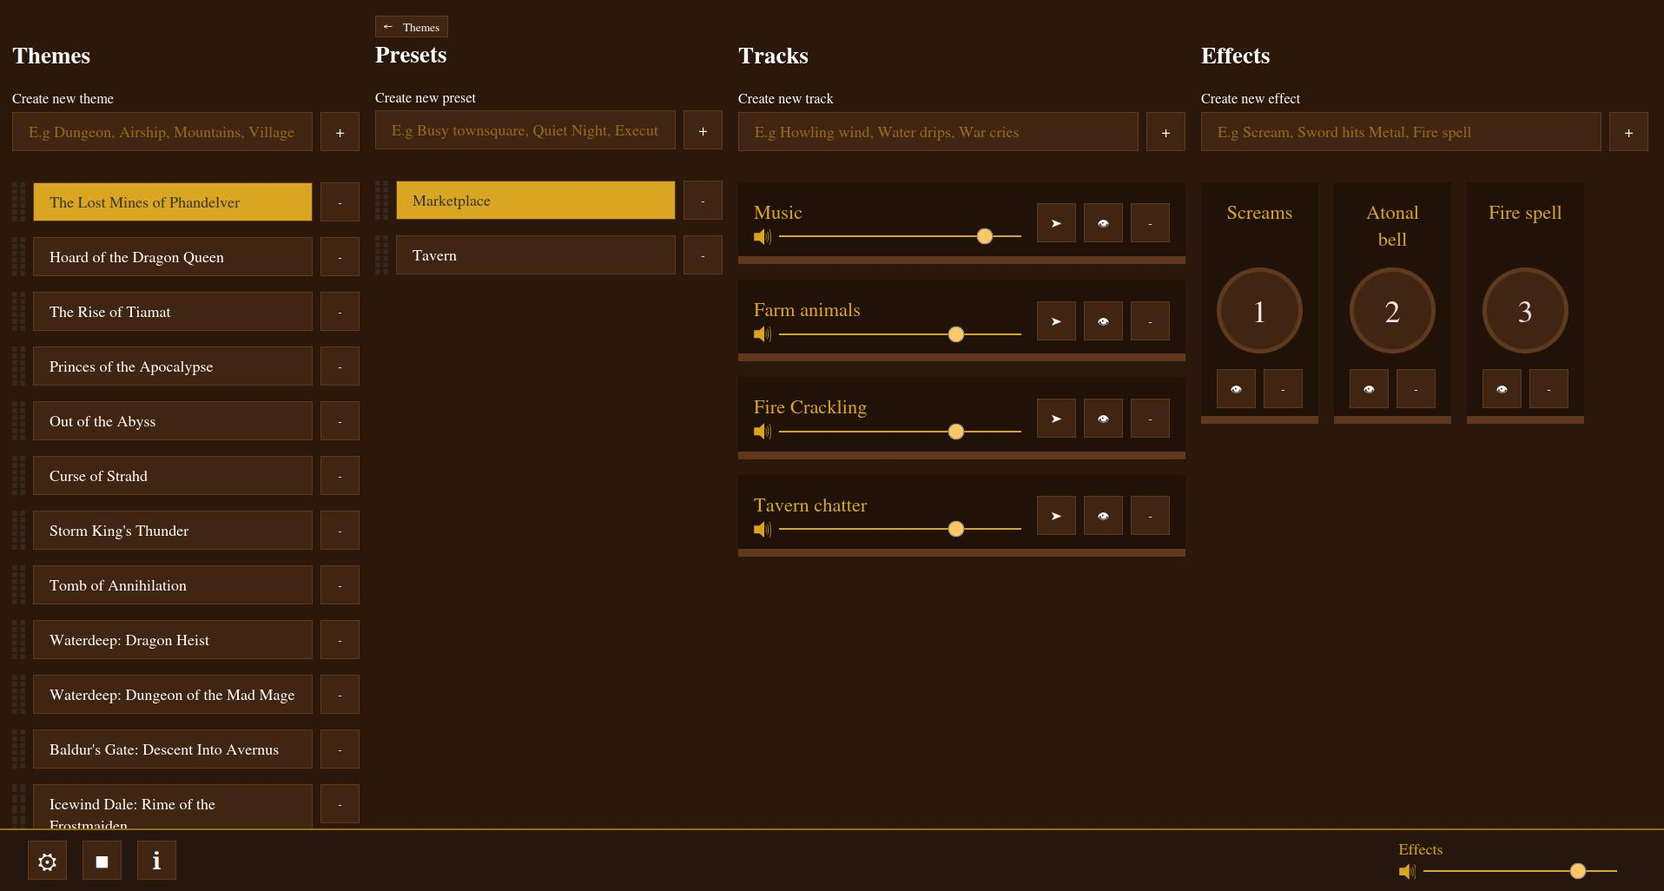
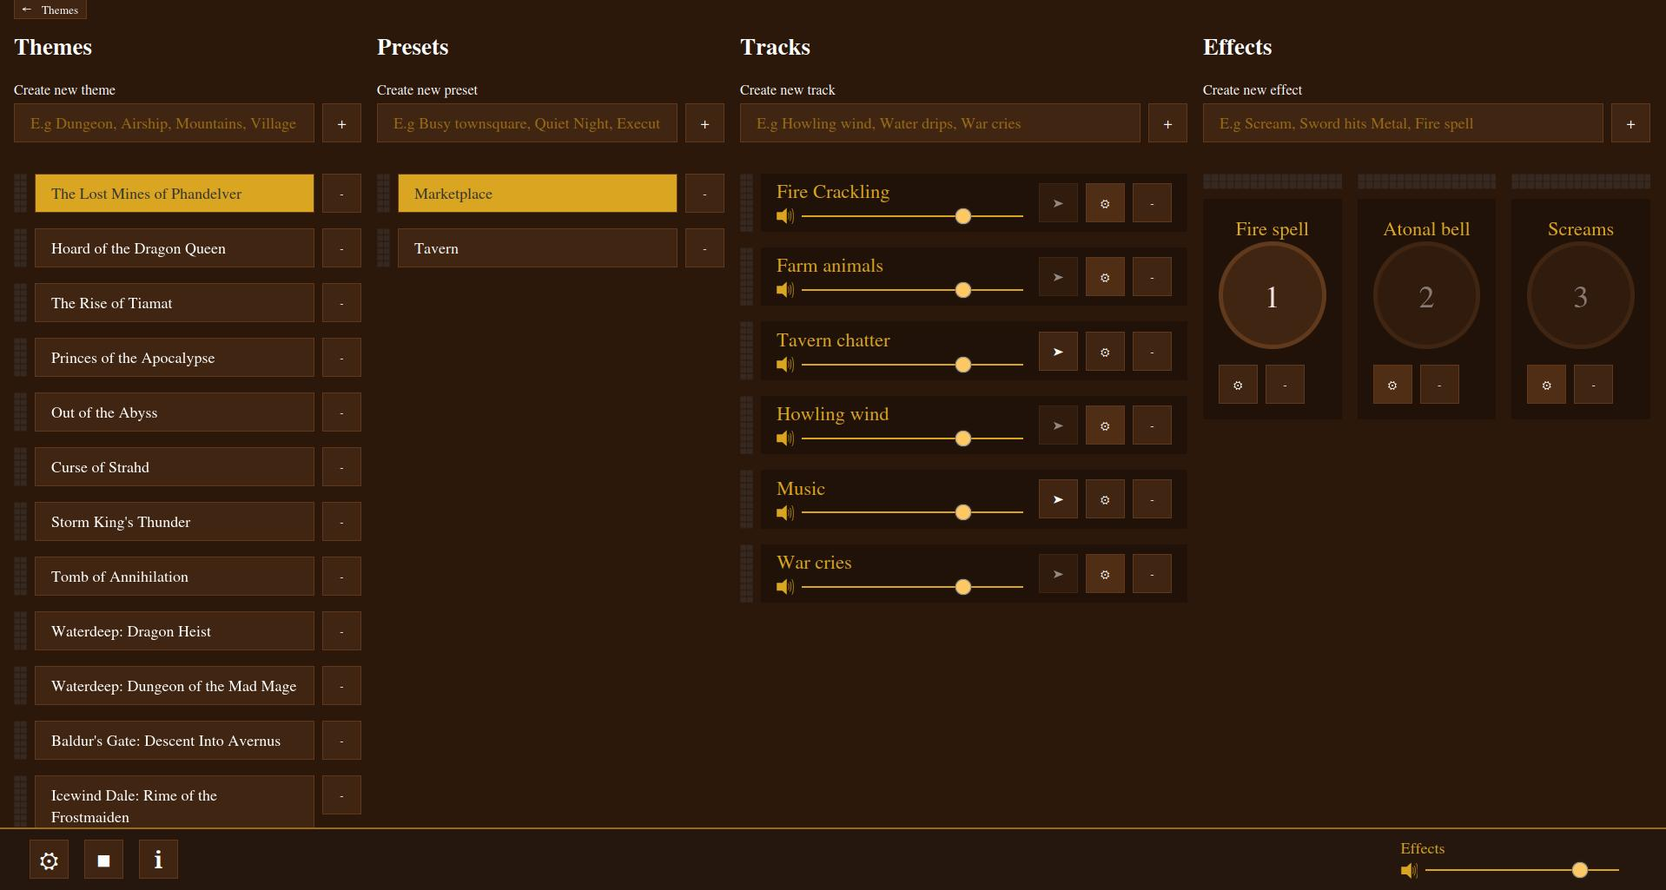
Add new readme image

diff --git a/assets/scss/style.css b/assets/scss/style.css
@@ -1,1 +1,1 @@
-*{font-family:Cambria,Cochin,Georgia,Times,"Times New Roman",serif;box-sizing:border-box}html{font-size:18px}body{background-color:#2b180b;color:#fff;margin:0}h1,h2,h3{margin-block:unset}h2{margin-bottom:1rem}ul{list-style:none;padding-left:unset;margin-block:unset}input{font-size:1rem;color:inherit}input[type=file]{display:none}input[type=button],button{cursor:pointer}input[type=file]+label{background-color:#2b180b;color:#fff;padding:.25rem 1rem;cursor:pointer;width:100%}textarea{max-width:100%;font-size:1.25rem;resize:none}::-moz-placeholder{color:#996b15;opacity:1}::placeholder{color:#996b15;opacity:1}main{display:flex;gap:1rem;padding-inline:1rem;position:relative}.action-section{flex:1;display:grid;grid-template-columns:clamp(300px,21vw,400px) minmax(0, 1fr) minmax(0, 1fr);gap:1rem}.shrinking~.action-section{grid-template-columns:clamp(300px,21vw,400px) minmax(0, 1fr) minmax(0, 1.5fr)}.files{gap:1rem;display:grid}section:not(#preset) header{margin-top:2.5rem}#theme{transition:width 500ms linear,transform 500ms linear;width:100%;overflow:hidden;max-width:400px}.empty{background-color:unset !important;width:100%;max-width:unset !important;padding:unset !important}.add-form{display:flex;flex-wrap:wrap;gap:.5rem;margin-bottom:1rem}.add-form__label{display:block;flex:100%;font-size:.9rem;margin-bottom:-0.25rem}.add-form__input{background-color:#402512;border:1px solid #61381b;outline:none;padding:.5rem 1rem;flex:1}.action-button{background-color:#402512;border:1px solid #61381b;color:#fff;transition:background-color 300ms,transform 200ms;width:2.5rem;height:2.5rem;display:inline-block;line-height:1}.action-button:hover{background-color:#ae6430}.action-button:active{transform:rotate(5deg)}.play-actions{display:flex;align-items:center;gap:.5rem;justify-self:center}header{margin-bottom:2rem;margin-top:1rem}.tracks{display:flex;flex-direction:column;gap:1rem}.track-title{color:#daa520;font-size:1.25rem;word-wrap:break-word}.track-title__container{text-align:center}.track-row{display:flex;flex-direction:column;gap:1rem;flex:1;padding:.25rem 1rem;background-color:rgba(0,0,0,.25)}@media(min-width: 1800px){.track-row{align-items:center;flex-direction:row;gap:unset;justify-content:space-between}}.track-info{display:flex;flex-direction:column;width:100%}.volume-bar{color:#daa520;display:flex;gap:.5rem;padding-right:1rem}.volume-bar-background{position:relative;display:flex;align-items:center;width:100%}.volume-bar svg{width:1.25rem;height:auto}.volume-bar-background::before{position:absolute;content:"";width:100%;background-color:currentColor;height:2px;z-index:0}.volume-bar input[type=range]{-webkit-appearance:none;-moz-appearance:none;appearance:none;background-color:unset;border:unset;position:relative;z-index:1;padding:unset;width:100%}.volume-bar input[type=range]::-webkit-slider-thumb,.volume-bar input[type=range]::-moz-range-thumb{-webkit-appearance:none;appearance:none;height:16px;width:16px;background:#ffc862;box-shadow:0 0 2px 0 #555;-webkit-transition:background .3s ease-in-out;-moz-transition:background .3s ease-in-out;transition:background .3s ease-in-out}.volume-bar input[type=range]::-webkit-slider-thumb:hover,.volume-bar input[type=range]::-moz-range-thumb:hover{background:#fff;border-radius:0}.volume-bar input[type=range]::-webkit-slider-runnable-track,.volume-bar input[type=range]::-moz-range-track{-webkit-appearance:none;appearance:none;box-shadow:none;border:none;background:rgba(0,0,0,0)}.list{display:flex;flex-direction:column;gap:1rem;overflow-y:auto;padding-bottom:1rem;scrollbar-gutter:stable}.list li.list__item{display:flex;gap:.5rem}.list li input[type=button],.list li input[type=text],.list li textarea{background-color:#402512;color:#fff;border:1px solid #61381b;padding:.5rem 1rem;flex:1;text-align:start;transition:background-color 300ms,transform 200ms;white-space:break-spaces;outline:none}.list li input[type=button]:hover,.list li input[type=text]:hover,.list li textarea:hover{background-color:#ae6430}.list li input[type=button]:active,.list li input[type=text]:active,.list li textarea:active{transform:rotate(1deg)}.list li[data-state=selected] input[type=button]{color:#333;border:1px solid #61381b;background-color:#daa520}#track .list li{display:flex;justify-content:space-between;gap:.5rem}#effect .list{justify-content:space-between;display:grid;grid-template-columns:135px 135px 135px;row-gap:1rem;-moz-column-gap:unset;column-gap:unset}#effect .list li{max-width:7.5rem;justify-content:space-between}.no-files [data-action=play]{opacity:50%;cursor:not-allowed}.no-files [data-action=see-files]{animation:pulse 1s infinite alternate linear}@keyframes pulse{from{background-color:#402512}to{background-color:#553118}}#effect .play-actions{margin-top:1rem}#effect .track__inner{margin-top:1.65rem;background-color:rgba(0,0,0,.25);padding:1rem;height:100%;display:flex;flex-direction:column;justify-content:space-between}[draggable=true]::before{content:"";background-size:100% 100%;width:15px;display:block;cursor:move;background-image:url("/assets/img/boxes-horizontal.svg");background-repeat:repeat-y;background-size:100%}#effect [draggable=true]{position:relative}#effect [draggable=true]::before{position:absolute;width:100%;height:1rem;left:0;top:0;background-image:url("/assets/img/boxes-vertical.svg");background-repeat:repeat-x;background-size:contain}#track textarea,#effect textarea{background-color:unset;border:unset;padding:unset}.dialog{z-index:10;display:none;position:absolute;left:0;top:0;width:100%;height:100vh}.dialog__outer{background-color:rgba(0,0,0,.5);display:flex;align-items:center;justify-content:center;height:100%}.dialog__inner{border:5px groove #daa520;border-radius:12px;background-color:#402512;padding:1.5rem;color:#daa520;position:relative;width:300px}.dialog button[data-action=close-dialog]{position:absolute;right:-4px;top:-3px;background-color:rgba(0,0,0,0);border:#daa520 2px solid;color:#daa520;height:1.5rem;width:1.5rem;line-height:1;border-radius:6px;transition:background-color 300ms,color 300ms}.dialog button[data-action=close-dialog]:hover{background-color:#daa520;color:#2b180b}.dialog .action-button{width:1.5rem;height:1.5rem}.dialog--show{display:block}.dialog__files{padding-top:1rem;margin-top:1rem;border-top:1px solid #ffc862}.dialog .files__file{display:flex;justify-content:space-between}.dialog h2{font-size:1rem;margin-bottom:.5rem}.dialog form{text-align:center}.keystroke{width:100%;display:inline-block;border-radius:50%;font-size:2rem;color:#f5e3e3;background-color:#402512;border:solid 5px #61391c;transition:background-color 300ms cubic-bezier(0.165, 0.84, 0.44, 1);aspect-ratio:1/1}.keystroke:hover{background-color:#2b180b}.keystroke:active{background-color:#daa520}#effect li{display:flex;flex-direction:column;gap:1rem}footer{position:fixed;bottom:0;left:0;right:0;width:100%;display:flex;justify-content:space-between;background-color:#25170d;border-top:#996b15 2px solid;padding:.5rem 2rem;color:#fff;align-items:center}.footer-slider{display:flex;flex-direction:column;justify-content:center;color:#daa520}.footer-buttons{display:flex;align-items:center;gap:1rem}.action-button[data-action=settings]{font-size:1.5rem}.action-button[data-action=info]{font-size:1.5rem}.action-button[data-action=play].active{background-color:#daa520}.action-button[data-action=toggle-themes]{width:unset;height:unset;padding:.25rem .5rem}.action-button[data-action=toggle-themes] .arrow{transition:transform 300ms ease-in-out;display:inline-block;margin-right:.5rem}
+*{font-family:Cambria,Cochin,Georgia,Times,"Times New Roman",serif;box-sizing:border-box}html{font-size:18px}body{background-color:#2b180b;color:#fff;margin:0}h1,h2,h3{margin-block:unset}h2{margin-bottom:1rem}ul{list-style:none;padding-left:unset;margin-block:unset}input{font-size:1rem;color:inherit}input[type=file]{display:none}input[type=button],button{cursor:pointer}input[type=file]+label{background-color:#2b180b;color:#fff;padding:.25rem 1rem;cursor:pointer;width:100%}textarea{max-width:100%;font-size:1.25rem;resize:none}::-moz-placeholder{color:#996b15;opacity:1}::placeholder{color:#996b15;opacity:1}main{display:flex;padding-inline:1rem;position:relative}.action-section{flex:1;display:grid;grid-template-columns:clamp(300px,21vw,400px) minmax(0, 1fr) minmax(0, 1fr);gap:1rem;margin-left:1rem}.shrinking~.action-section{grid-template-columns:clamp(300px,21vw,400px) minmax(0, 1fr) minmax(0, 1.5fr);margin-left:unset}.shrinking+.action-section #effect .list{grid-template-columns:1fr 1fr 1fr 1fr 1fr}.files{gap:1rem;display:grid}#theme{transition:width 500ms linear,transform 500ms linear;width:100%;overflow:hidden;max-width:400px}.empty{background-color:unset !important;width:100%;max-width:unset !important;padding:unset !important}.add-form{display:flex;flex-wrap:wrap;gap:.5rem;margin-bottom:1rem}.add-form__label{display:block;flex:100%;font-size:.9rem;margin-bottom:-0.25rem}.add-form__input{background-color:#402512;border:1px solid #61381b;outline:none;padding:.5rem 1rem;flex:1}.action-button{background-color:#402512;border:1px solid #61381b;color:#fff;transition:background-color 300ms,transform 200ms;width:2.5rem;height:2.5rem;display:inline-block;line-height:1;cursor:pointer}.action-button:hover{background-color:#ae6430}.action-button:active{transform:rotate(5deg)}.play-actions{display:flex;align-items:center;gap:.5rem;justify-self:center}header{margin-block:2rem}.tracks{display:flex;flex-direction:column;gap:1rem}.track-title{color:#daa520;font-size:1.25rem;word-wrap:break-word}.track-title__container{text-align:center}.track-row{display:flex;flex-direction:column;gap:1rem;flex:1;padding:.25rem 1rem;background-color:rgba(0,0,0,.25)}@media(min-width: 1800px){.track-row{align-items:center;flex-direction:row;gap:unset;justify-content:space-between}}.track-info{display:flex;flex-direction:column;width:100%}.volume-bar{color:#daa520;display:flex;gap:.5rem;padding-right:1rem}.volume-bar-background{position:relative;display:flex;align-items:center;width:100%}.volume-bar svg{width:1.25rem;height:auto}.volume-bar-background::before{position:absolute;content:"";width:100%;background-color:currentColor;height:2px;z-index:0}.volume-bar input[type=range]{-webkit-appearance:none;-moz-appearance:none;appearance:none;background-color:unset;border:unset;position:relative;z-index:1;padding:unset;width:100%}.volume-bar input[type=range]::-webkit-slider-thumb,.volume-bar input[type=range]::-moz-range-thumb{-webkit-appearance:none;appearance:none;height:16px;width:16px;background:#ffc862;box-shadow:0 0 2px 0 #555;-webkit-transition:background .3s ease-in-out;-moz-transition:background .3s ease-in-out;transition:background .3s ease-in-out}.volume-bar input[type=range]::-webkit-slider-thumb:hover,.volume-bar input[type=range]::-moz-range-thumb:hover{background:#fff;border-radius:0}.volume-bar input[type=range]::-webkit-slider-runnable-track,.volume-bar input[type=range]::-moz-range-track{-webkit-appearance:none;appearance:none;box-shadow:none;border:none;background:rgba(0,0,0,0)}.list{display:flex;flex-direction:column;gap:1rem;overflow-y:auto;padding-bottom:1rem;scrollbar-gutter:stable}.list li.list__item{display:flex;gap:.5rem}.list li input[type=button],.list li input[type=text],.list li textarea{background-color:#402512;color:#fff;border:1px solid #61381b;padding:.5rem 1rem;flex:1;text-align:start;transition:background-color 300ms,transform 200ms;white-space:break-spaces;outline:none}.list li input[type=button]:hover,.list li input[type=text]:hover,.list li textarea:hover{background-color:#ae6430}.list li input[type=button]:active,.list li input[type=text]:active,.list li textarea:active{transform:rotate(1deg)}.list li[data-state=selected] input[type=button]{color:#333;border:1px solid #61381b;background-color:#daa520}#track .list li{display:flex;justify-content:space-between;gap:.5rem}#effect .list{justify-content:space-between;display:grid;grid-template-columns:1fr 1fr 1fr}#effect .list li{justify-content:space-between}.no-files [data-action=play]{opacity:50%;cursor:not-allowed}.no-files [data-action=play]:hover,.no-files [data-action=play]:active{transform:unset;background-color:#402512}.no-files [data-action=see-files]{animation:pulse 1s infinite alternate linear}@keyframes pulse{from{background-color:#402512}to{background-color:#553118}}#effect .play-actions{margin-top:1rem}#effect .track__inner{margin-top:1.65rem;background-color:rgba(0,0,0,.25);padding:1rem;height:100%;display:flex;flex-direction:column;justify-content:space-between}[draggable=true]::before{content:"";background-size:100% 100%;width:15px;display:block;cursor:move;background-image:url("/assets/img/boxes-horizontal.svg");background-repeat:repeat-y;background-size:100%}#effect [draggable=true]{position:relative}#effect [draggable=true]::before{position:absolute;width:100%;height:1rem;left:0;top:0;background-image:url("/assets/img/boxes-vertical.svg");background-repeat:repeat-x;background-size:contain}#track textarea,#effect textarea{background-color:unset;border:unset;padding:unset}.dialog{z-index:10;display:none;position:absolute;left:0;top:0;width:100%;height:100vh}.dialog__outer{background-color:rgba(0,0,0,.5);display:flex;align-items:center;justify-content:center;height:100%}.dialog__inner{border:5px groove #daa520;border-radius:12px;background-color:#402512;padding:1.5rem;color:#daa520;position:relative;width:300px}.dialog button[data-action=close-dialog]{position:absolute;right:-4px;top:-3px;background-color:rgba(0,0,0,0);border:#daa520 2px solid;color:#daa520;height:1.5rem;width:1.5rem;line-height:1;border-radius:6px;transition:background-color 300ms,color 300ms}.dialog button[data-action=close-dialog]:hover{background-color:#daa520;color:#2b180b}.dialog .action-button{width:1.5rem;height:1.5rem}.dialog--show{display:block}.dialog__files{padding-top:1rem;margin-top:1rem;border-top:1px solid #ffc862}.dialog .files__file{display:flex;justify-content:space-between}.dialog h2{font-size:1rem;margin-bottom:.5rem}.dialog form{text-align:center}.keystroke{width:100%;display:inline-block;border-radius:50%;font-size:2rem;color:#f5e3e3;background-color:#402512;border:solid 5px #61391c;transition:background-color 300ms cubic-bezier(0.165, 0.84, 0.44, 1);aspect-ratio:1/1}.keystroke:hover{background-color:#2b180b}.keystroke:active{background-color:#daa520}#effect li{display:flex;flex-direction:column;gap:1rem}footer{position:fixed;bottom:0;left:0;right:0;width:100%;display:flex;justify-content:space-between;background-color:#25170d;border-top:#996b15 2px solid;padding:.5rem 2rem;color:#fff;align-items:center}.footer-slider{display:flex;flex-direction:column;justify-content:center;color:#daa520}.footer-buttons{display:flex;align-items:center;gap:1rem}.action-button[data-action=settings]{font-size:1.5rem}.action-button[data-action=info]{font-size:1.5rem}.action-button[data-action=play].active{background-color:#daa520}.action-button[data-action=toggle-themes]{position:fixed;top:0;z-index:1;width:unset;height:unset;padding:.25rem .5rem}.action-button[data-action=toggle-themes] .arrow{transition:transform 300ms ease-in-out;display:inline-block;margin-right:.5rem}

diff --git a/assets/js/script.js b/assets/js/script.js
@@ -368,12 +368,15 @@ function createPreset(value, theme_id, list) {
   if (value === "Default") {
     current = 1
   }
-  loadJson(`/api/preset/create.php?name=${value}&theme_id=${theme_id}&current=${current}`)
+  const order = list.children.length + 1
+
+  loadJson(`/api/preset/create.php?name=${value}&theme_id=${theme_id}&order=${order}&current=${current}`)
   .then(id => {
     const template = document.querySelector('#item')
     const clone = template.content.cloneNode(true)
     const li = clone.querySelector('.list__item')
     li.setAttribute('data-id', id)
+    li.setAttribute('data-order', order)
     clone.querySelector('.list__item input[type=button]').value = value
     list.append(clone)
     if (current) {
@@ -386,22 +389,25 @@ function createPreset(value, theme_id, list) {
 }
 
 function createTrack(value, theme_id, list) {
-    loadJson(`/api/track/create.php?name=${value}&theme_id=${theme_id}&type_id=1`)
-    .then(id => {
-      const template = document.querySelector('#track-item')
-      const clone = template.content.cloneNode(true)
-      const li = clone.querySelector('li')
-      li.setAttribute('data-id', id)
-      li.querySelector('.track-title').innerHTML = value
-      list.append(clone)
-      // TODO: Add exclamation for "Add file to this track"
-      const empty = list.querySelector('.empty')
-      if (empty) empty.remove()
-    })
+  const order = list.children.length + 1
+  loadJson(`/api/track/create.php?name=${value}&theme_id=${theme_id}&type_id=1&order=${order}`)
+  .then(id => {
+    const template = document.querySelector('#track-item')
+    const clone = template.content.cloneNode(true)
+    const li = clone.querySelector('li')
+    li.setAttribute('data-id', id)
+    li.setAttribute('data-order', order)
+    li.querySelector('.track-title').innerHTML = value
+    list.append(clone)
+    tagTracksWithoutFiles()
+    const empty = list.querySelector('.empty')
+    if (empty) empty.remove()
+  })
 }
 
 function createEffect(value, theme_id, list) {
-  loadJson(`/api/track/create.php?name=${value}&theme_id=${theme_id}&type_id=2`)
+  const order = list.children.length + 1
+  loadJson(`/api/track/create.php?name=${value}&theme_id=${theme_id}&type_id=2&order=${order}`)
   .then(id => {
     const template = document.querySelector('#effect-item')
     const clone = template.content.cloneNode(true)
@@ -412,7 +418,7 @@ function createEffect(value, theme_id, list) {
     const keystroke = keystrokes[list.querySelectorAll('li:not(.empty)').length - 1]
     li.setAttribute('data-keystroke', keystroke)
     li.querySelector('.keystroke').innerHTML = keystroke
-    // TODO: Add exclamation for "Add file to this track"
+    tagTracksWithoutFiles()
     const empty = list.querySelector('.empty')
     if (empty) empty.remove()
   })
@@ -515,6 +521,9 @@ document.addEventListener('click', (ev) => {
     if (type === "effect" || type === "track") {
       loadJson(`/api/track/delete.php?id=${id}`)
       li.remove()
+      if (list.children.length === 0) {
+        list.innerHTML = `<li class="empty">No ${type}s added yet!</li>`
+      }
       return
     }
     const selected = list.querySelector('[data-state=selected]')
@@ -649,7 +658,7 @@ document.addEventListener('click', (ev) => {
 
   if (ev.target.getAttribute('data-action') === 'toggle-themes') {
     const theme = document.querySelector('#theme')
-    let transform = theme_width + 32 // inline padding + gap
+    let transform = theme_width // inline padding + gap
     if (theme.style.width === "0px") {
       ev.target.querySelector('.arrow').style.transform = "rotateY(0)"
       ev.target.style.backgroundColor = "#402512"

diff --git a/assets/scss/style.scss b/assets/scss/style.scss
@@ -59,7 +59,6 @@ textarea {
 
 main {
   display: flex;
-  gap: 1rem;
   padding-inline: 1rem;
   position: relative;
 }
@@ -69,20 +68,21 @@ main {
   display: grid;
   grid-template-columns: clamp(300px, 21vw, 400px) minmax(0, 1fr) minmax(0, 1fr);
   gap: 1rem;
+  margin-left: 1rem;
 }
 
 .shrinking ~ .action-section {
   grid-template-columns: clamp(300px, 21vw, 400px) minmax(0, 1fr) minmax(0, 1.5fr);
+  margin-left: unset;
+}
+
+.shrinking + .action-section #effect .list {
+  grid-template-columns: 1fr 1fr 1fr 1fr 1fr;
 }
 
 .files {
   gap: 1rem;
   display: grid;
-}
-
-
-section:not(#preset) header {
-  margin-top: 2.5rem;
 }
 
 #theme {
@@ -128,6 +128,7 @@ section:not(#preset) header {
   height: 2.5rem;
   display: inline-block;
   line-height: 1;
+  cursor: pointer;
   &:hover {
     background-color: rgb(174, 100, 48);
   }
@@ -144,8 +145,7 @@ section:not(#preset) header {
 }
 
 header {
-  margin-bottom: 2rem;
-  margin-top: 1rem;
+  margin-block: 2rem;
 }
 
 .tracks {
@@ -292,11 +292,8 @@ header {
 #effect .list {
   justify-content: space-between;
   display: grid;
-  grid-template-columns: 135px 135px 135px;
-  row-gap: 1rem;
-  column-gap: unset;
+  grid-template-columns: 1fr 1fr 1fr;
   & li {
-    max-width: 7.5rem;
     justify-content: space-between;
   }
 }
@@ -305,6 +302,10 @@ header {
   & [data-action=play] {
     opacity: 50%;
     cursor:not-allowed;
+    &:hover, &:active {
+      transform: unset;
+      background-color: #402512;
+    }
   }
   & [data-action=see-files] {
     animation: pulse 1s infinite alternate linear;
@@ -499,6 +500,9 @@ footer {
   background-color: goldenrod;
 }
 .action-button[data-action=toggle-themes] {
+  position: fixed;
+  top: 0;
+  z-index: 1;
   width: unset;
   height: unset;
   padding: .25rem .5rem;

diff --git a/DB.php b/DB.php
@@ -73,7 +73,7 @@ class DB {
 
   // Preset
   // Create
-  public function create_preset($name, $theme_id, $current = 0) {
+  public function create_preset($name, $theme_id, $order, $current = 0) {
     // create preset
     $sql = "INSERT INTO preset (name) VALUES(:name)";
     $stmt = $this->pdo->prepare($sql);
@@ -82,11 +82,12 @@ class DB {
     $preset_id = $this->pdo->lastInsertId();
 
     // add preset to theme
-    $sql = "INSERT INTO theme_preset (theme_id, preset_id, current) VALUES(:theme_id, :preset_id, :current)";
+    $sql = "INSERT INTO theme_preset (theme_id, preset_id, current, \"order\") VALUES(:theme_id, :preset_id, :current, :order)";
     $stmt = $this->pdo->prepare($sql);
     $stmt->bindValue(':theme_id', $theme_id);
     $stmt->bindValue(':preset_id', $preset_id);
     $stmt->bindValue(':current', $current);
+    $stmt->bindValue(':order', $order);
     $stmt->execute();
 
     return $preset_id;
@@ -228,7 +229,7 @@ class DB {
 
   // Track
   // Create
-  public function create_track($name, $theme_id, $type_id) {
+  public function create_track($name, $theme_id, $type_id, $order) {
     // create track
     $sql = "INSERT INTO track (name, type_id) VALUES(:name, :type_id)";
     $stmt = $this->pdo->prepare($sql);
@@ -238,10 +239,11 @@ class DB {
     $track_id = $this->pdo->lastInsertId();
 
     // add track to theme
-    $sql = "INSERT INTO theme_track (theme_id, track_id) VALUES(:theme_id, :track_id)";
+    $sql = "INSERT INTO theme_track (theme_id, track_id, \"order\") VALUES(:theme_id, :track_id, :order)";
     $stmt = $this->pdo->prepare($sql);
     $stmt->bindValue(':theme_id', $theme_id);
     $stmt->bindValue(':track_id', $track_id);
+    $stmt->bindValue(':order', $order);
     $stmt->execute();
 
     return $track_id;

diff --git a/partials/section.php b/partials/section.php
@@ -1,13 +1,6 @@
 <section id="<?= $data_type ?>">
   <header>
-    <?php if ($data_type === "preset") : ?>
-      <div class="preset-header-row">
-        <button class="action-button" data-action="toggle-themes"><span class="arrow">&larr;</span> Themes</button>
-        <h2><?= $title ?></h2>
-      </div>
-    <?php else : ?>
-      <h2><?= $title ?></h2>
-    <?php endif; ?>
+    <h2><?= $title ?></h2>
     <?php include $partials . "add-form.php"; ?>
   </header>
   <ul class="list">
@@ -32,7 +25,7 @@
     <?php endif; ?>
   </ul>
   <template id="item">
-    <li data-id="" class="list__item" data-order="" draggable="true">
+    <li data-order="" draggable="true" data-id="" class="list__item">
       <input data-action="select" type="button" value="">
       <button class="action-button" data-action="delete">-</button>
     </li>

diff --git a/api/track/create.php b/api/track/create.php
@@ -3,11 +3,12 @@ require_once($_SERVER['DOCUMENT_ROOT'] . '/DB.php');
 
 $data = null;
 $db = new DB();
-if (isset($_GET['name']) && isset($_GET['theme_id']) && isset($_GET['type_id'])) {
+if (isset($_GET['name']) && isset($_GET['theme_id']) && isset($_GET['type_id']) && isset($_GET['order'])) {
   $data = $db->create_track(
     htmlspecialchars($_GET['name']),
     htmlspecialchars($_GET['theme_id']),
-    htmlspecialchars($_GET['type_id']));
+    htmlspecialchars($_GET['type_id']),
+    htmlspecialchars($_GET['order']));
 }
 
 header("Content-Type: application/json");

diff --git a/index.php b/index.php
@@ -10,6 +10,7 @@
 
 <body>
   <main>
+    <button class="action-button" data-action="toggle-themes"><span class="arrow">&larr;</span> Themes</button>
     <?php
     $partials = $_SERVER['DOCUMENT_ROOT'] . "/partials/";
     include $partials . "setup.php";
@@ -26,7 +27,7 @@
     $placeholder = "E.g Busy townsquare, Quiet Night, Execution";
     ?>
     <div class="action-section">
-    <?php
+      <?php
       include $partials . "section.php";
       include $partials . "tracks.php";
       include $partials . "effects.php";

diff --git a/api/preset/create.php b/api/preset/create.php
@@ -5,7 +5,11 @@ $data = null;
 $db = new DB();
 if (isset($_GET['name']) && isset($_GET['theme_id'])) {
   $current = $_GET['current'] ?? 0;
-  $data = $db->create_preset(htmlspecialchars($_GET['name']), htmlspecialchars($_GET['theme_id']), $current);
+  $data = $db->create_preset(
+    htmlspecialchars($_GET['name']),
+    htmlspecialchars($_GET['theme_id']),
+    htmlspecialchars($_GET['order']),
+    $current);
 }
 
 header("Content-Type: application/json");
